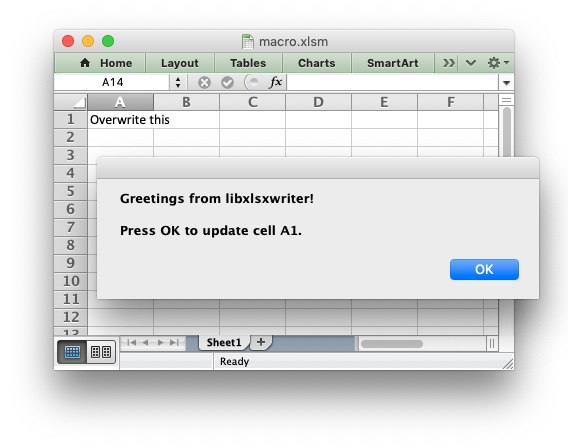
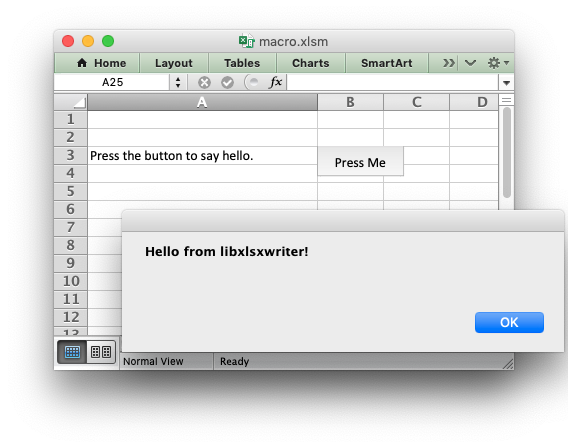
Added docs and example for worksheet  macro buttons.
Feature request #39

diff --git a/include/xlsxwriter/worksheet.h b/include/xlsxwriter/worksheet.h
@@ -4306,10 +4306,36 @@ lxw_error worksheet_conditional_format_range(lxw_worksheet *worksheet,
                                              lxw_col_t last_col,
                                              lxw_conditional_format
                                              *conditional_format);
-
-lxw_error worksheet_insert_button(lxw_worksheet *worksheet, lxw_row_t row_num,
-                                  lxw_col_t col_num,
-                                  lxw_button_options *options);
+/**
+ * @brief Insert a button object into a worksheet.
+ *
+ * @param worksheet  Pointer to a lxw_worksheet instance to be updated.
+ * @param row        The zero indexed row number.
+ * @param col        The zero indexed column number.
+ * @param options    A #lxw_button_options object to set the button properties.
+ *
+ * @return A #lxw_error code.
+ *
+ * The `%worksheet_insert_button()` function can be used to insert an Excel
+ * form button into a worksheet. This function is generally only useful when
+ * used in conjunction with the `workbook_add_vba_project()` function to tie
+ * the button to a macro from an embedded VBA project:
+ *
+ * @code
+ *     lxw_button_options options = {.caption = "Press Me",
+ *                                   .macro   = "say_hello"};
+ *
+ *     worksheet_insert_button(worksheet, 2, 1, &options);
+ * @endcode
+ *
+ * @image html macros.png
+ *
+ * The button properties are set using the lxw_button_options struct.
+ *
+ * See also @ref working_with_macros
+ */
+lxw_error worksheet_insert_button(lxw_worksheet *worksheet, lxw_row_t row,
+                                  lxw_col_t col, lxw_button_options *options);
 
 /**
  * @brief Add an Excel table to a worksheet.

diff --git a/examples/macro.c b/examples/macro.c
@@ -6,6 +6,10 @@
  * The vba_extract.py utility from the libxlsxwriter examples directory can be
  * used to extract the vbaProject.bin file.
  *
+ * This example connects the macro to a button (the only Excel/VBA form object
+ * supported by libxlsxwriter) but that isn't a requirement for adding a macro
+ * file to the workbook.
+ *
  * Copyright 2014-2021, John McNamara, jmcnamara@cpan.org
  */
 
@@ -13,13 +17,22 @@
 
 int main() {
 
+    /* Note the xlsm extension of the filename */
     lxw_workbook  *workbook  = workbook_new("macro.xlsm");
     lxw_worksheet *worksheet = workbook_add_worksheet(workbook, NULL);
 
-    /* Add a macro that will execute when the file is opened. */
+    worksheet_set_column(worksheet, COLS("A:A"), 30, NULL);
+
+    /* Add a macro file extracted from an Excel workbook. */
     workbook_add_vba_project(workbook, "vbaProject.bin");
 
-    worksheet_write_string(worksheet, 0, 0, "Overwrite this", NULL);
+    worksheet_write_string(worksheet, 2, 0, "Press the button to say hello.", NULL);
+
+    lxw_button_options options = {.caption = "Press Me", .macro = "say_hello",
+                                  .width = 80, .height = 30};
+
+     worksheet_insert_button(worksheet, 2, 1, &options);
+
 
     return workbook_close(workbook);
 }
